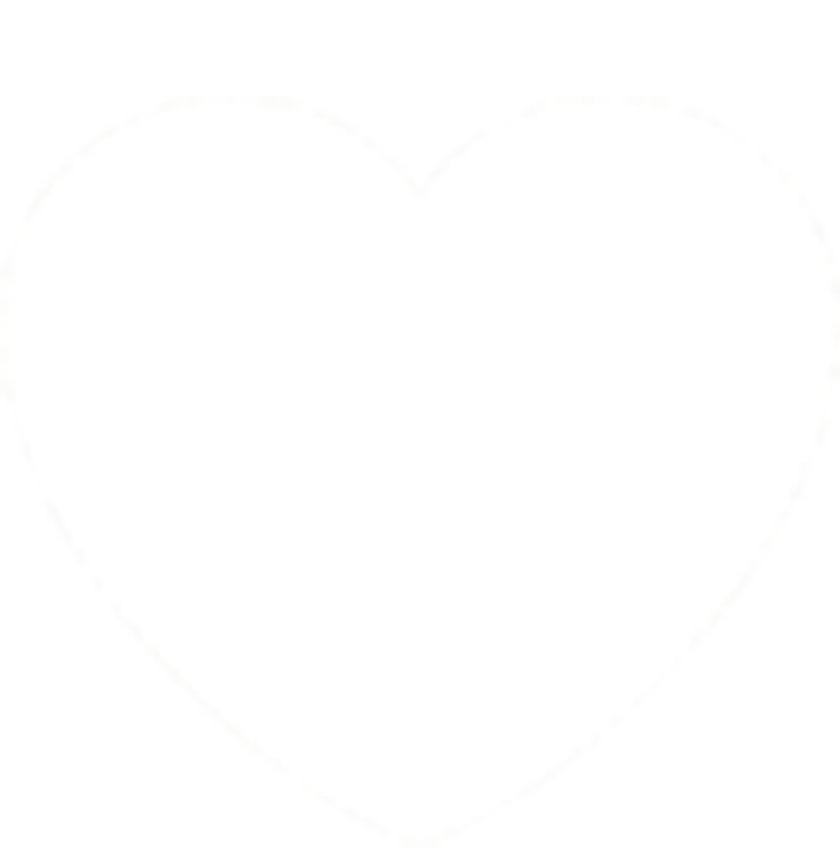
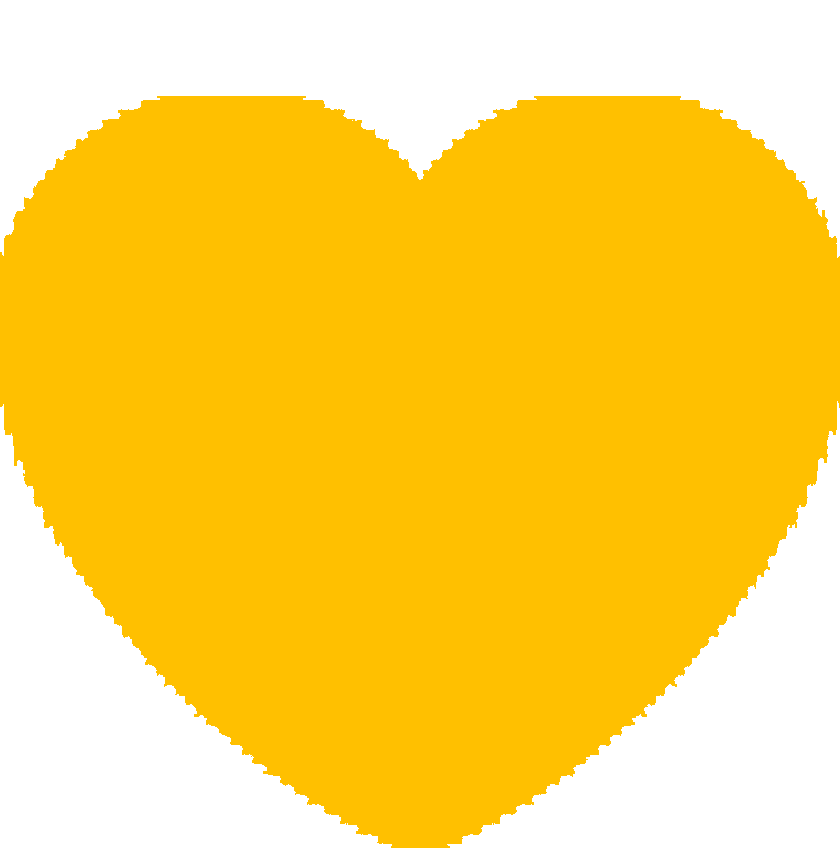
🦸♂Add some related artist

diff --git a/oudfrontend/src/components/SuggestedArtist/MainArtistC.js b/oudfrontend/src/components/SuggestedArtist/MainArtistC.js
@@ -13,10 +13,6 @@ class MainArtistC extends Component {
     this.state = {
       artists: [],
     };
-  }
-
-  componentDidMount = () => {
-    // `${base}/SuggestedArtist`;
     axios
       .get(fetchUserInfo, config)
       .then((result) => {
@@ -26,13 +22,57 @@ class MainArtistC extends Component {
       .catch((err) => {
         console.log('error', err.result);
       });
-    console.log('state ', this.state.artists);
+  }
+  check = (rA, relatedArtist) => {
+    console.log(rA.id !== relatedArtist.id);
+    return rA.id !== relatedArtist.id;
   };
+
+  handleRelated = (id) => {
+    axios
+      .get(`${base}/artists/${id}/related-artists`)
+      .then((response) => {
+        let relatedArtists = response.data.artists;
+        let toBeDeleted = [];
+        relatedArtists.forEach((relatedArtist) => {
+          this.state.artists.forEach((artist) => {
+            if (artist.id === relatedArtist.id) {
+              toBeDeleted.push(relatedArtist);
+            }
+          });
+        });
+        relatedArtists = relatedArtists.filter(
+          (a) => toBeDeleted.indexOf(a) === -1
+        );
+        // let cutIndex = 0;
+        // for (let i = 0; i < this.state.artists.length; i++) {
+        //   if (this.state.artists[i].id === id) {
+        //     cutIndex = i;
+        //     break;
+        //   }
+        // }
+        // let artists = this.state.artists;
+        // let after = artists.splice(cutIndex + 1);
+        // console.log(cutIndex, artists, after);
+        this.setState({
+          artists: this.state.artists.concat(relatedArtists),
+        });
+      })
+      .catch((err) => {
+        console.log(err.response);
+      });
+  };
+  componentDidMount = () => {};
+  componentDidUpdate() {}
   render() {
     return (
       <div className="MainArtistC">
         <div className="spacc"></div>
-        <ArtistC artists={this.state.artists}></ArtistC>
+        <ArtistC
+          artists={this.state.artists}
+          handleSelect={this.props.handleSelect}
+          handleRelated={this.handleRelated}
+        ></ArtistC>
         <div className="spaceeee"></div>
       </div>
     );

diff --git a/oudfrontend/src/components/SuggestedArtist/Artistc.js b/oudfrontend/src/components/SuggestedArtist/Artistc.js
@@ -1,4 +1,4 @@
-import React from 'react';
+import React, {Component} from 'react';
 import ArtistCards from './Artistscards';
 import './suggestedArtist.css';
 import {base, subUrl, prodUrl} from './../../config/environment';
@@ -8,26 +8,37 @@ import {base, subUrl, prodUrl} from './../../config/environment';
  * @param {object} props
  * @returns {JSX}
  */
-export default function Artistc(props) {
+export default class Artistc extends Component {
+  constructor(props) {
+    super(props);
+    this.state = {artists: this.props.artists};
+  }
   /**
    * here is the subpath of the image if it in the production or in the base
    */
-  const subPath = base === prodUrl ? subUrl : '';
-  return (
-    <div className="Artists">
-      <div className="row ArtistMap">
-        {props.artists.map((element, index) => (
-          /**
-          here i map the artist and send the props 
-          the name and the display name 
-           */
-          <ArtistCards
-            displayName={element.displayName}
-            image={`${subPath}${element.images[0]}`}
-            key={index}
-          />
-        ))}
+
+  componentWillReceiveProps() {}
+  render = () => {
+    const subPath = base === prodUrl ? subUrl : '';
+    return (
+      <div className="Artists">
+        <div className="row ArtistMap">
+          {this.props.artists.map((
+            element,
+            index /** here i map the artist and
+        send the props the name and the display name */
+          ) => (
+            <ArtistCards
+              displayName={element.displayName}
+              image={`${subPath}${element.images[0]}`}
+              key={index}
+              handleSelect={this.props.handleSelect}
+              handleRelated={this.props.handleRelated}
+              id={element.id}
+            />
+          ))}
+        </div>
       </div>
-    </div>
-  );
+    );
+  };
 }

diff --git a/oudfrontend/src/components/SuggestedArtist/Artistscards.js b/oudfrontend/src/components/SuggestedArtist/Artistscards.js
@@ -1,6 +1,8 @@
 import React, {Component} from 'react';
 import './suggestedArtist.css';
 import loved from './../../assets/images/H.png';
+import Axios from 'axios';
+
 /**
  *@class 
  the artist card that have the structure of the one card 
@@ -8,7 +10,7 @@ import loved from './../../assets/images/H.png';
 class ArtistCard extends Component {
   /**
    * constructor
-   * @param Toggle css 
+   * @param Toggle css
    */
   constructor(props) {
     super(props);
@@ -18,8 +20,20 @@ class ArtistCard extends Component {
       isSelected: false,
       displayName: this.props.displayName,
       image: this.props.image,
+      id: this.props.id,
     };
   }
+  handleSelect = () => {
+    this.setState({
+      selected: !this.state.selected,
+      isSelected: !this.state.isSelected,
+    });
+    this.props.handleSelect(this.props.id, this.state.selected);
+    this.props.handleRelated(this.props.id);
+    
+
+  };
+
   toggleSelected = () => {
     if (this.state.selected === false) this.setState({selected: true});
     else this.setState({selected: false});
@@ -30,14 +44,9 @@ class ArtistCard extends Component {
         className="container"
         onMouseEnter={() => this.setState({Toggle: false})}
         onMouseLeave={() => this.setState({Toggle: true})}
-        onClick={() =>
-          this.setState({
-            selected: !this.state.selected,
-            isSelected: !this.state.isSelected,
-          })
-        }
+        onClick={this.handleSelect}
       >
-        <div className="SingleCard" onClick={this.onClickImage}>
+        <div className="SingleCard">
           <div className="">
             <div className={`${this.state.Toggle ? 'show' : 'half'}`}>
               <div className={this.state.isSelected ? 'asd' : ''}>

diff --git a/oudfrontend/src/components/SuggestedArtist/suggestedArtist.test.js b/oudfrontend/src/components/SuggestedArtist/suggestedArtist.test.js
@@ -2,7 +2,7 @@ import React from 'react';
 import {shallow, mount} from 'enzyme';
 import * as renderer from 'react-test-renderer';
 import SuggestedNavBar from './SuggestedNavBar';
-import SuggestedFooterB from './SuggestedFooterB';
+import SuggestedFooterB from './SuggestedFooter';
 import SuggestedFooterT from './SuggestedFooterT';
 import SuggestedArtist from './../../pages/SuggestedArtistPage/SuggestedArtist';
 import ArtistCard from './Artistscards';

diff --git a/oudfrontend/src/components/SuggestedArtist/suggestedArtist.css b/oudfrontend/src/components/SuggestedArtist/suggestedArtist.css
@@ -172,7 +172,7 @@
 
 .half {
   opacity: 100%;
-  transition: 1s ease;
+  transition: 1.5s ease;
   background-color: goldenrod;
   border-radius: 100%;
 }
